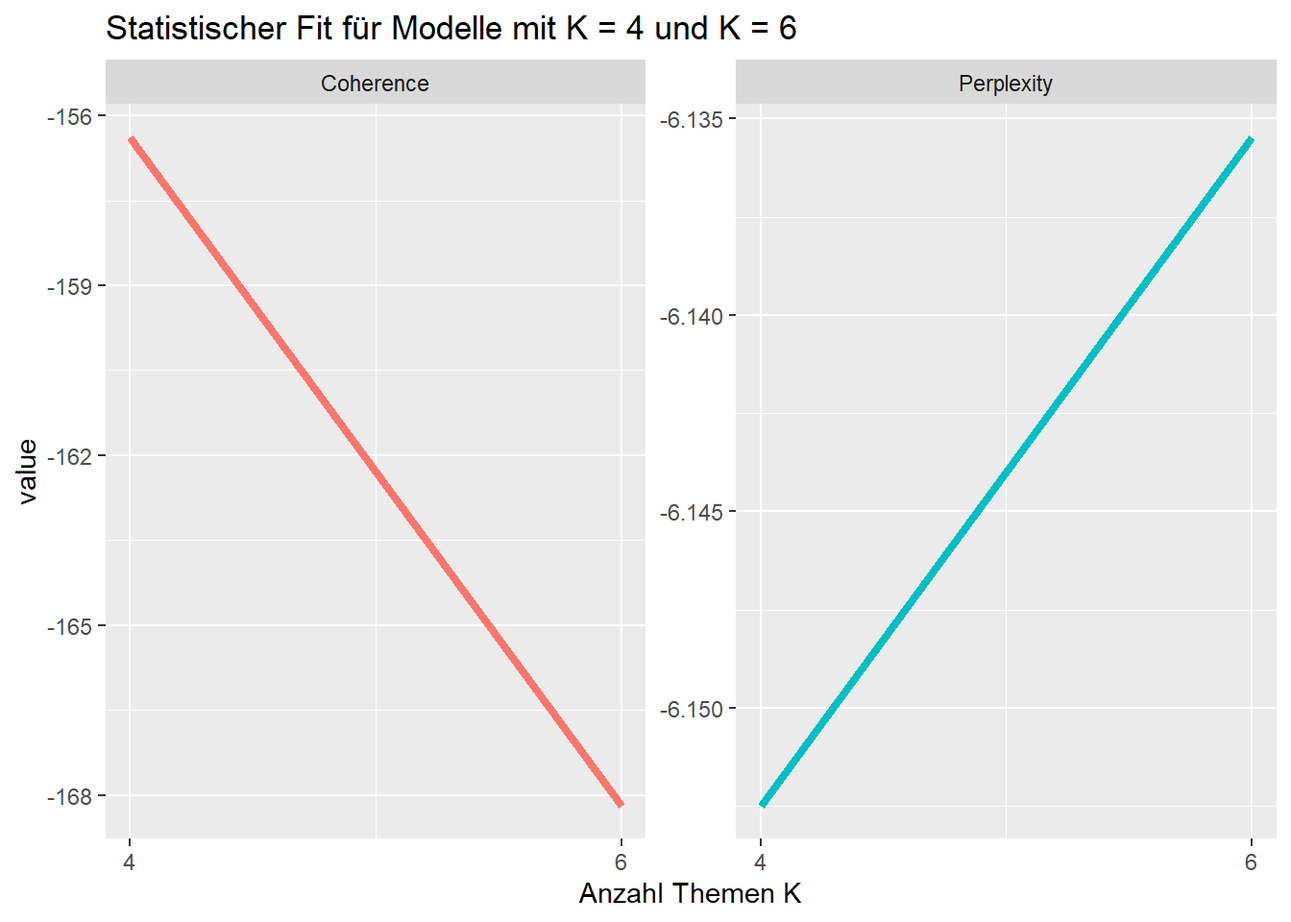
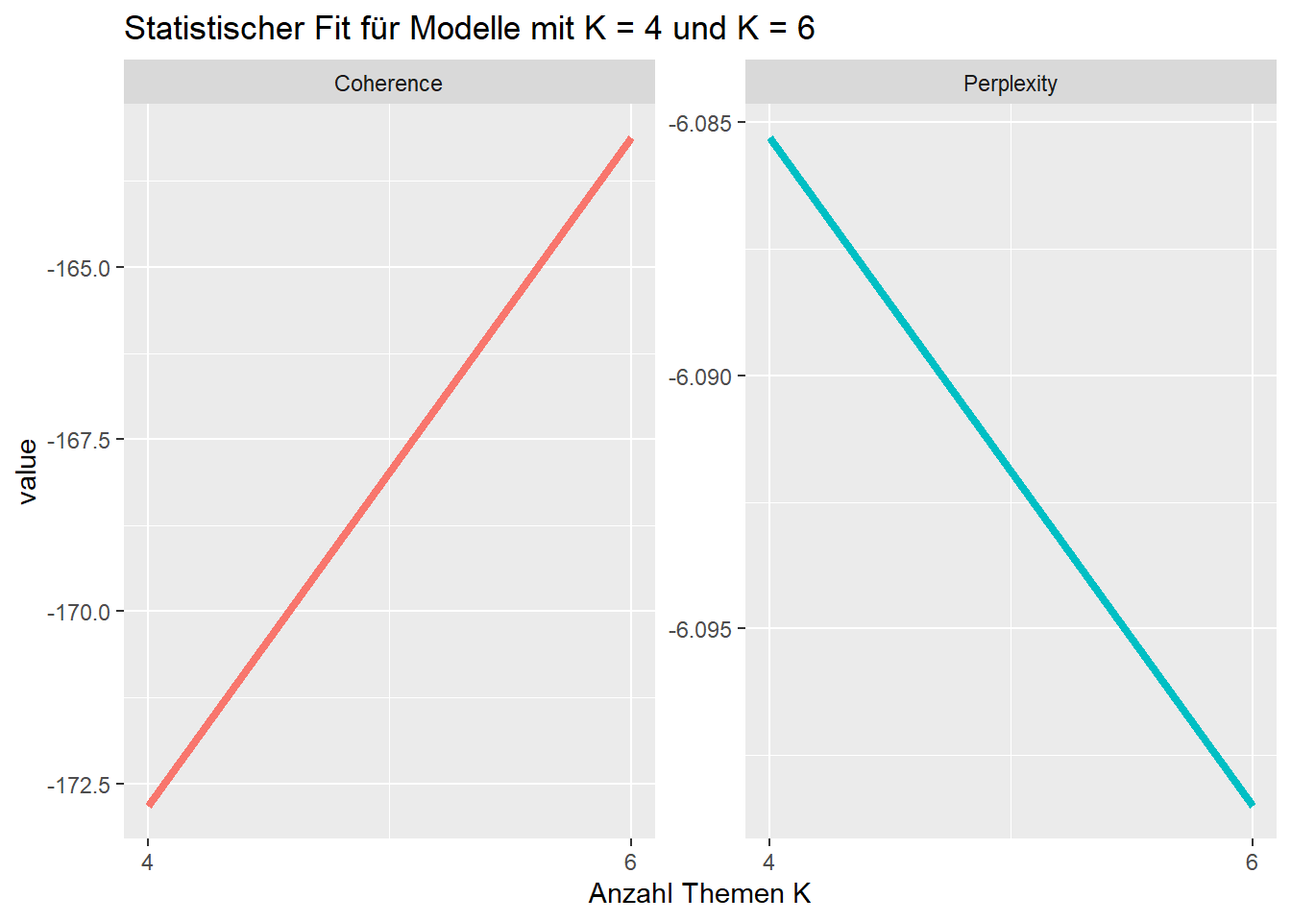
re-rendered tut1

diff --git a/docs/tutorial/04-topicmodeling.html b/docs/tutorial/04-topicmodeling.html
@@ -316,17 +316,17 @@ pre > code.sourceCode > span > a:first-child::before { text-decoration: underlin
 <span id="cb8-9"><a href="#cb8-9" aria-hidden="true" tabindex="-1"></a><span class="fu">colnames</span>(topics_4K) <span class="ot">&lt;-</span> <span class="fu">paste</span>(<span class="st">"Topics"</span>, <span class="fu">c</span>(<span class="dv">1</span><span class="sc">:</span><span class="dv">4</span>))</span>
 <span id="cb8-10"><a href="#cb8-10" aria-hidden="true" tabindex="-1"></a>topics_4K</span></code><button title="Copy to Clipboard" class="code-copy-button"><i class="bi"></i></button></pre></div>
 <div class="cell-output cell-output-stdout">
-<pre><code>       Topics 1 Topics 2    Topics 3 Topics 4
-1          solv     find        citi   discov
-2       mission    everi        life   mother
-3         crime     head        york      los
-4          part   embark         job children
-5          live     name      vampir    death
-6          unit    chang         new    world
-7         ident     seri      search      boy
-8       special     boss        just     come
-9  relationship   horror      friend    demon
-10        coupl   includ misadventur    angel</code></pre>
+<pre><code>   Topics 1 Topics 2 Topics 3 Topics 4
+1     crime     find     life  mysteri
+2     human     seri     live   discov
+3    detect  struggl      new      boy
+4  adventur    chang   friend     lead
+5    crimin     name     citi    agent
+6      case    everi   school    angel
+7      solv    polit     york     dark
+8       use     head   togeth   mother
+9     futur     seem     high   surviv
+10    alien   embark   person children</code></pre>
 </div>
 </div>
 <div class="cell">
@@ -341,17 +341,17 @@ pre > code.sourceCode > span > a:first-child::before { text-decoration: underlin
 <span id="cb10-9"><a href="#cb10-9" aria-hidden="true" tabindex="-1"></a><span class="fu">colnames</span>(topics_6) <span class="ot">&lt;-</span> <span class="fu">paste</span>(<span class="st">"Topics"</span>, <span class="fu">c</span>(<span class="dv">1</span><span class="sc">:</span><span class="dv">6</span>))</span>
 <span id="cb10-10"><a href="#cb10-10" aria-hidden="true" tabindex="-1"></a>topics_6</span></code><button title="Copy to Clipboard" class="code-copy-button"><i class="bi"></i></button></pre></div>
 <div class="cell-output cell-output-stdout">
-<pre><code>   Topics 1 Topics 2 Topics 3 Topics 4 Topics 5 Topics 6
-1     polic     best    angel    human     show   murder
-2    detect   school      los    earth   comedi   crimin
-3      solv   return     live   surviv   around    agent
-4     crime     home     love      war    demon   serial
-5      team     busi  centuri    order  various     save
-6   special     high     teen    alien     name   colleg
-7      case     york   vampir    space   featur  wealthi
-8    person   famili  compani   danger    event american
-9    depart   troubl     make   embark     meet   killer
-10    princ      new     look      job     seri     girl</code></pre>
+<pre><code>     Topics 1 Topics 2 Topics 3 Topics 4 Topics 5 Topics 6
+1       polic     best   vampir    human   comedi american
+2       crime   school   famili    alien     show      war
+3      detect      new     teen    earth   togeth   serial
+4  profession      boy  brother   planet  various    dream
+5    investig     hero   differ    futur     work   killer
+6       stori     york      son  struggl     anim     plan
+7      person   mother     epic    fight     name      cia
+8        case   return    demon   galaxi   featur     turn
+9     special     high    world    space  everyth     drug
+10      polit   troubl    navig     last     lead    begin</code></pre>
 </div>
 </div>
 <p>Die Top Features geben bereits einen ersten Eindruck, worum es sich inhaltlich bei den Topics handelt.</p>
@@ -366,9 +366,9 @@ pre > code.sourceCode > span > a:first-child::before { text-decoration: underlin
 <div class="cell-output cell-output-stdout">
 <pre><code>
  Topic 1: 
-     A drama centered on the personal and professional lives of five surgical interns and their supervisors.
+     Detective Jane Rizzoli and Chief Medical Examiner Dr. Maura Isles team up to solve crimes in Boston.
     An elite unit, led by an ex-homicide cop, which is linked to the Miami-Dade Police Department, uses all possible resources and skills at their disposal to solve complex crimes in cross-cultural Miami.
-    Follows the journey of a time traveler from the post-apocalyptic future who appears in present day on a mission to locate and eradicate the source of a deadly plague that will nearly destroy the human race.</code></pre>
+    The further adventures in time and space of the alien adventurer known as the Doctor and his companions from planet Earth.</code></pre>
 </div>
 </div>
 <p>Die Top Documents zeigen, ähnlich wie die Top Features, dass Topic 1 Krimi-Serien zusammenfasst. Für eine Evaluierung der Themen müssen dann für beide Modelle und alle jeweiligen Themen die Top Documents ausgegeben und die Ergebnisse verglichen werden.</p>
@@ -388,12 +388,13 @@ pre > code.sourceCode > span > a:first-child::before { text-decoration: underlin
 <span id="cb14-6"><a href="#cb14-6" aria-hidden="true" tabindex="-1"></a>  <span class="fu">head</span>()</span></code><button title="Copy to Clipboard" class="code-copy-button"><i class="bi"></i></button></pre></div>
 <div class="cell-output cell-output-stdout">
 <pre><code>   docnum    Topic1    Topic2    Topic3    Topic4
-1:      1 0.2416641 0.2255669 0.2856377 0.2471312
-2:      2 0.2301722 0.1771304 0.2345128 0.3581846
-3:      3 0.1657307 0.1569436 0.2297371 0.4475887
-4:      4 0.3713389 0.1578832 0.3093944 0.1613836
-5:      5 0.1539901 0.1199690 0.2422572 0.4837837
-6:      6 0.1588818 0.2754584 0.2464439 0.3192159</code></pre>
+    &lt;int&gt;     &lt;num&gt;     &lt;num&gt;     &lt;num&gt;     &lt;num&gt;
+1:      1 0.2663954 0.2620603 0.2840283 0.1875160
+2:      2 0.3234499 0.1736692 0.2082024 0.2946784
+3:      3 0.1401247 0.1727312 0.1448235 0.5423207
+4:      4 0.1237850 0.1137826 0.6349453 0.1274870
+5:      5 0.1694126 0.1476420 0.3017674 0.3811779
+6:      6 0.2748651 0.1791878 0.2271607 0.3187864</code></pre>
 </div>
 </div>
 <p>Jetzt nehmen wir diese Matrix und ordnen jedem Dokument das Thema mit der höchsten Prävalenz zu.</p>
@@ -435,10 +436,10 @@ pre > code.sourceCode > span > a:first-child::before { text-decoration: underlin
 <span id="cb17-9"><a href="#cb17-9" aria-hidden="true" tabindex="-1"></a>         <span class="at">perc =</span> <span class="fu">round</span>(perc, <span class="dv">2</span>))</span></code><button title="Copy to Clipboard" class="code-copy-button"><i class="bi"></i></button></pre></div>
 <div class="cell-output cell-output-stdout">
 <pre><code>  Rank1_K4   n  perc
-1   Topic1 106 11.78
-2   Topic2  67  7.44
-3   Topic3 275 30.56
-4   Topic4 452 50.22</code></pre>
+1   Topic1 190 21.11
+2   Topic2  40  4.44
+3   Topic3 311 34.56
+4   Topic4 359 39.89</code></pre>
 </div>
 </div>
 <p>Und jetzt das gleiche für K = 6</p>
@@ -454,12 +455,12 @@ pre > code.sourceCode > span > a:first-child::before { text-decoration: underlin
 <span id="cb19-9"><a href="#cb19-9" aria-hidden="true" tabindex="-1"></a>         <span class="at">perc =</span> <span class="fu">round</span>(perc, <span class="dv">2</span>))</span></code><button title="Copy to Clipboard" class="code-copy-button"><i class="bi"></i></button></pre></div>
 <div class="cell-output cell-output-stdout">
 <pre><code>  Rank1_K6   n  perc
-1   Topic1 166 18.44
-2   Topic2 154 17.11
-3   Topic3 135 15.00
-4   Topic4 199 22.11
-5   Topic5 133 14.78
-6   Topic6 113 12.56</code></pre>
+1   Topic1 147 16.33
+2   Topic2 116 12.89
+3   Topic3 189 21.00
+4   Topic4 197 21.89
+5   Topic5 139 15.44
+6   Topic6 112 12.44</code></pre>
 </div>
 </div>
 <p>Die Ergebnisse zeigen, dass bei K = 6 die Verteilung der Dokumente wesentlich gleichmäßiger ausfällt.</p>
@@ -494,46 +495,69 @@ pre > code.sourceCode > span > a:first-child::before { text-decoration: underlin
 <span id="cb21-16"><a href="#cb21-16" aria-hidden="true" tabindex="-1"></a></span>
 <span id="cb21-17"><a href="#cb21-17" aria-hidden="true" tabindex="-1"></a><span class="co">#Ausgabe der ersten Zeilen</span></span>
 <span id="cb21-18"><a href="#cb21-18" aria-hidden="true" tabindex="-1"></a><span class="fu">head</span>(data)</span></code><button title="Copy to Clipboard" class="code-copy-button"><i class="bi"></i></button></pre></div>
+<div class="cell-output cell-output-stdout">
+<pre><code>                Title      Year Parental.Rating Rating Number.of.Votes
+1  1. Game of Thrones 2011–2019           TV-MA    9.2            2.3M
+2     2. Breaking Bad 2008–2013           TV-MA    9.5            2.1M
+3  3. Stranger Things 2016–2025           TV-14    8.7            1.3M
+4          4. Friends 1994–2004           TV-14    8.9            1.1M
+5 5. The Walking Dead 2010–2022           TV-MA    8.1            1.1M
+6         6. Sherlock 2010–2017           TV-14    9.1              1M
+                                                                                                                                                                                                                                    Description
+1                                                                                                           Nine noble families fight for control over the lands of Westeros, while an ancient enemy returns after being dormant for millennia.
+2                                                                    A chemistry teacher diagnosed with inoperable lung cancer turns to manufacturing and selling methamphetamine with a former student in order to secure his family's future.
+3                                                                                          When a young boy vanishes, a small town uncovers a mystery involving secret experiments, terrifying supernatural forces and one strange little girl.
+4                                                                                                        Follows the personal and professional lives of six twenty to thirty year-old friends living in the Manhattan borough of New York City.
+5                                                                                                              Sheriff Deputy Rick Grimes wakes up from a coma to learn the world is in ruins and must lead a group of survivors to stay alive.
+6 The quirky spin on Conan Doyle's iconic sleuth pitches him as a "high-functioning sociopath" in modern-day London. Assisting him in his investigations: Afghanistan War vet John Watson, who's introduced to Holmes by a mutual acquaintance.
+  Rank1_K4 Rank1_K6 Year_Start
+1   Topic3   Topic4       2011
+2   Topic1   Topic4       2008
+3   Topic4   Topic6       2016
+4   Topic3   Topic2       1994
+5   Topic4   Topic3       2010
+6   Topic4   Topic4       2010</code></pre>
+</div>
 </div>
 <p>Dann nehmen wir die Variable <code>Year_Start</code> als unabhängige Variable in unser Modell auf, um die Prävalenz von Themen zu modellieren:</p>
 <div class="cell">
-<div class="sourceCode cell-code" id="cb22"><pre class="sourceCode r code-with-copy"><code class="sourceCode r"><span id="cb22-1"><a href="#cb22-1" aria-hidden="true" tabindex="-1"></a><span class="co"># Wir lassen das angepasste Modell laufen</span></span>
-<span id="cb22-2"><a href="#cb22-2" aria-hidden="true" tabindex="-1"></a>model_6K_year <span class="ot">&lt;-</span> <span class="fu">stm</span>(<span class="at">documents =</span> dfm_stm<span class="sc">$</span>documents,</span>
-<span id="cb22-3"><a href="#cb22-3" aria-hidden="true" tabindex="-1"></a>                     <span class="at">vocab =</span> dfm_stm<span class="sc">$</span>vocab, </span>
-<span id="cb22-4"><a href="#cb22-4" aria-hidden="true" tabindex="-1"></a>                     <span class="at">K =</span> <span class="dv">6</span>,</span>
-<span id="cb22-5"><a href="#cb22-5" aria-hidden="true" tabindex="-1"></a>                     <span class="at">prevalence =</span> <span class="sc">~</span> Year_Start, <span class="co">#neu!</span></span>
-<span id="cb22-6"><a href="#cb22-6" aria-hidden="true" tabindex="-1"></a>                     <span class="at">data =</span> data)</span></code><button title="Copy to Clipboard" class="code-copy-button"><i class="bi"></i></button></pre></div>
+<div class="sourceCode cell-code" id="cb23"><pre class="sourceCode r code-with-copy"><code class="sourceCode r"><span id="cb23-1"><a href="#cb23-1" aria-hidden="true" tabindex="-1"></a><span class="co"># Wir lassen das angepasste Modell laufen</span></span>
+<span id="cb23-2"><a href="#cb23-2" aria-hidden="true" tabindex="-1"></a>model_6K_year <span class="ot">&lt;-</span> <span class="fu">stm</span>(<span class="at">documents =</span> dfm_stm<span class="sc">$</span>documents,</span>
+<span id="cb23-3"><a href="#cb23-3" aria-hidden="true" tabindex="-1"></a>                     <span class="at">vocab =</span> dfm_stm<span class="sc">$</span>vocab, </span>
+<span id="cb23-4"><a href="#cb23-4" aria-hidden="true" tabindex="-1"></a>                     <span class="at">K =</span> <span class="dv">6</span>,</span>
+<span id="cb23-5"><a href="#cb23-5" aria-hidden="true" tabindex="-1"></a>                     <span class="at">prevalence =</span> <span class="sc">~</span> Year_Start, <span class="co">#neu!</span></span>
+<span id="cb23-6"><a href="#cb23-6" aria-hidden="true" tabindex="-1"></a>                     <span class="at">data =</span> data)</span></code><button title="Copy to Clipboard" class="code-copy-button"><i class="bi"></i></button></pre></div>
 </div>
 <p>Jetzt können wir mit der Funktion <code>estimateEffect()</code> aus dem <code>stm</code>-Paket berechnen, inwiefern das Erscheinungsjahr einer Serie einen Einfluss auf das dort behandelte Thema hat:</p>
 <div class="cell">
-<div class="sourceCode cell-code" id="cb23"><pre class="sourceCode r code-with-copy"><code class="sourceCode r"><span id="cb23-1"><a href="#cb23-1" aria-hidden="true" tabindex="-1"></a>effect <span class="ot">&lt;-</span> <span class="fu">estimateEffect</span>(<span class="at">formula =</span> <span class="sc">~</span> Year_Start, </span>
-<span id="cb23-2"><a href="#cb23-2" aria-hidden="true" tabindex="-1"></a>                         <span class="at">stmobj =</span> model_6K_year, </span>
-<span id="cb23-3"><a href="#cb23-3" aria-hidden="true" tabindex="-1"></a>                         <span class="at">metadata =</span> data)</span></code><button title="Copy to Clipboard" class="code-copy-button"><i class="bi"></i></button></pre></div>
+<div class="sourceCode cell-code" id="cb24"><pre class="sourceCode r code-with-copy"><code class="sourceCode r"><span id="cb24-1"><a href="#cb24-1" aria-hidden="true" tabindex="-1"></a>effect <span class="ot">&lt;-</span> <span class="fu">estimateEffect</span>(<span class="at">formula =</span> <span class="sc">~</span> Year_Start, </span>
+<span id="cb24-2"><a href="#cb24-2" aria-hidden="true" tabindex="-1"></a>                         <span class="at">stmobj =</span> model_6K_year, </span>
+<span id="cb24-3"><a href="#cb24-3" aria-hidden="true" tabindex="-1"></a>                         <span class="at">metadata =</span> data)</span></code><button title="Copy to Clipboard" class="code-copy-button"><i class="bi"></i></button></pre></div>
 </div>
 <p>Diesen Effekt können wir nun auch grafisch darstellen. Bsp. wollen wir wissen: Hat das Erscheinungsjahr einen Effekt darauf, wie häufig Serien z.B. Drama (Topic 2) vs.&nbsp;Sci-Fi (Topic 4) darstellen?</p>
 <div class="cell">
-<div class="sourceCode cell-code" id="cb24"><pre class="sourceCode r code-with-copy"><code class="sourceCode r"><span id="cb24-1"><a href="#cb24-1" aria-hidden="true" tabindex="-1"></a>topics_6 <span class="sc">%&gt;%</span></span>
-<span id="cb24-2"><a href="#cb24-2" aria-hidden="true" tabindex="-1"></a>  <span class="fu">select</span>(<span class="st">`</span><span class="at">Topics 2</span><span class="st">`</span>, <span class="st">`</span><span class="at">Topics 4</span><span class="st">`</span>)</span></code><button title="Copy to Clipboard" class="code-copy-button"><i class="bi"></i></button></pre></div>
+<div class="sourceCode cell-code" id="cb25"><pre class="sourceCode r code-with-copy"><code class="sourceCode r"><span id="cb25-1"><a href="#cb25-1" aria-hidden="true" tabindex="-1"></a>topics_6 <span class="sc">%&gt;%</span></span>
+<span id="cb25-2"><a href="#cb25-2" aria-hidden="true" tabindex="-1"></a>  <span class="fu">select</span>(<span class="st">`</span><span class="at">Topics 2</span><span class="st">`</span>, <span class="st">`</span><span class="at">Topics 4</span><span class="st">`</span>)</span></code><button title="Copy to Clipboard" class="code-copy-button"><i class="bi"></i></button></pre></div>
 <div class="cell-output cell-output-stdout">
 <pre><code>   Topics 2 Topics 4
 1      best    human
-2    school    earth
-3    return   surviv
-4      home      war
-5      busi    order
-6      high    alien
-7      york    space
-8    famili   danger
-9    troubl   embark
-10      new      job</code></pre>
+2    school    alien
+3       new    earth
+4       boy   planet
+5      hero    futur
+6      york  struggl
+7    mother    fight
+8    return   galaxi
+9      high    space
+10   troubl     last</code></pre>
 </div>
 </div>
 <p>Wir plotten die Ergebnisse und sehen - es scheint Unterschiede über die Zeit hinweg zu geben!</p>
 <div class="cell">
-<div class="sourceCode cell-code" id="cb26"><pre class="sourceCode r code-with-copy"><code class="sourceCode r"><span id="cb26-1"><a href="#cb26-1" aria-hidden="true" tabindex="-1"></a><span class="fu">plot</span>(effect, <span class="st">"Year_Start"</span>, </span>
-<span id="cb26-2"><a href="#cb26-2" aria-hidden="true" tabindex="-1"></a>     <span class="at">method =</span> <span class="st">"continuous"</span>, </span>
-<span id="cb26-3"><a href="#cb26-3" aria-hidden="true" tabindex="-1"></a>     <span class="at">topics =</span> <span class="fu">c</span>(<span class="dv">2</span>,<span class="dv">4</span>), </span>
-<span id="cb26-4"><a href="#cb26-4" aria-hidden="true" tabindex="-1"></a>     <span class="at">model =</span> model_6K_year)</span></code><button title="Copy to Clipboard" class="code-copy-button"><i class="bi"></i></button></pre></div>
+<div class="sourceCode cell-code" id="cb27"><pre class="sourceCode r code-with-copy"><code class="sourceCode r"><span id="cb27-1"><a href="#cb27-1" aria-hidden="true" tabindex="-1"></a><span class="fu">plot</span>(effect, <span class="st">"Year_Start"</span>, </span>
+<span id="cb27-2"><a href="#cb27-2" aria-hidden="true" tabindex="-1"></a>     <span class="at">method =</span> <span class="st">"continuous"</span>, </span>
+<span id="cb27-3"><a href="#cb27-3" aria-hidden="true" tabindex="-1"></a>     <span class="at">topics =</span> <span class="fu">c</span>(<span class="dv">2</span>,<span class="dv">4</span>), </span>
+<span id="cb27-4"><a href="#cb27-4" aria-hidden="true" tabindex="-1"></a>     <span class="at">model =</span> model_6K_year)</span></code><button title="Copy to Clipboard" class="code-copy-button"><i class="bi"></i></button></pre></div>
 <div class="cell-output-display">
 <div>
 <figure class="figure">
@@ -553,17 +577,17 @@ pre > code.sourceCode > span > a:first-child::before { text-decoration: underlin
 </ul>
 <p>Dieses findet ihr unter Sitzung 4 zum Download (<a href="https://valeriehase.github.io/textasdata-ms/data/Sitzung4.RDATA">hier</a>), solltest ihr bis hierhin Probleme gehabt haben, den Code auszuführen.</p>
 <div class="cell">
-<div class="sourceCode cell-code" id="cb27"><pre class="sourceCode r code-with-copy"><code class="sourceCode r"><span id="cb27-1"><a href="#cb27-1" aria-hidden="true" tabindex="-1"></a><span class="co"># Wir erstellen das Objekt out, in dem alle wichtigen Infos gespeichert sind</span></span>
-<span id="cb27-2"><a href="#cb27-2" aria-hidden="true" tabindex="-1"></a><span class="co"># Das stminsights-Paket benötigt dieses Format</span></span>
-<span id="cb27-3"><a href="#cb27-3" aria-hidden="true" tabindex="-1"></a>out <span class="ot">&lt;-</span> <span class="fu">list</span>(<span class="at">documents =</span> dfm_stm<span class="sc">$</span>documents,</span>
-<span id="cb27-4"><a href="#cb27-4" aria-hidden="true" tabindex="-1"></a>            <span class="at">vocab =</span> dfm_stm<span class="sc">$</span>vocab,</span>
-<span id="cb27-5"><a href="#cb27-5" aria-hidden="true" tabindex="-1"></a>            <span class="at">meta =</span> dfm_stm<span class="sc">$</span>meta)</span>
-<span id="cb27-6"><a href="#cb27-6" aria-hidden="true" tabindex="-1"></a></span>
-<span id="cb27-7"><a href="#cb27-7" aria-hidden="true" tabindex="-1"></a><span class="co"># Wir speichern das Environment ab, um es hochzuladen</span></span>
-<span id="cb27-8"><a href="#cb27-8" aria-hidden="true" tabindex="-1"></a><span class="fu">save.image</span>(<span class="st">"Sitzung4.RDATA"</span>)</span>
-<span id="cb27-9"><a href="#cb27-9" aria-hidden="true" tabindex="-1"></a></span>
-<span id="cb27-10"><a href="#cb27-10" aria-hidden="true" tabindex="-1"></a><span class="co"># Wir lassen die Shiny App laufen</span></span>
-<span id="cb27-11"><a href="#cb27-11" aria-hidden="true" tabindex="-1"></a><span class="fu">run_stminsights</span>()</span></code><button title="Copy to Clipboard" class="code-copy-button"><i class="bi"></i></button></pre></div>
+<div class="sourceCode cell-code" id="cb28"><pre class="sourceCode r code-with-copy"><code class="sourceCode r"><span id="cb28-1"><a href="#cb28-1" aria-hidden="true" tabindex="-1"></a><span class="co"># Wir erstellen das Objekt out, in dem alle wichtigen Infos gespeichert sind</span></span>
+<span id="cb28-2"><a href="#cb28-2" aria-hidden="true" tabindex="-1"></a><span class="co"># Das stminsights-Paket benötigt dieses Format</span></span>
+<span id="cb28-3"><a href="#cb28-3" aria-hidden="true" tabindex="-1"></a>out <span class="ot">&lt;-</span> <span class="fu">list</span>(<span class="at">documents =</span> dfm_stm<span class="sc">$</span>documents,</span>
+<span id="cb28-4"><a href="#cb28-4" aria-hidden="true" tabindex="-1"></a>            <span class="at">vocab =</span> dfm_stm<span class="sc">$</span>vocab,</span>
+<span id="cb28-5"><a href="#cb28-5" aria-hidden="true" tabindex="-1"></a>            <span class="at">meta =</span> dfm_stm<span class="sc">$</span>meta)</span>
+<span id="cb28-6"><a href="#cb28-6" aria-hidden="true" tabindex="-1"></a></span>
+<span id="cb28-7"><a href="#cb28-7" aria-hidden="true" tabindex="-1"></a><span class="co"># Wir speichern das Environment ab, um es hochzuladen</span></span>
+<span id="cb28-8"><a href="#cb28-8" aria-hidden="true" tabindex="-1"></a><span class="fu">save.image</span>(<span class="st">"Sitzung4.RDATA"</span>)</span>
+<span id="cb28-9"><a href="#cb28-9" aria-hidden="true" tabindex="-1"></a></span>
+<span id="cb28-10"><a href="#cb28-10" aria-hidden="true" tabindex="-1"></a><span class="co"># Wir lassen die Shiny App laufen</span></span>
+<span id="cb28-11"><a href="#cb28-11" aria-hidden="true" tabindex="-1"></a><span class="fu">run_stminsights</span>()</span></code><button title="Copy to Clipboard" class="code-copy-button"><i class="bi"></i></button></pre></div>
 </div>
 </section>
 </section>

diff --git a/docs/tutorial/01-einlesen-bereinigen.html b/docs/tutorial/01-einlesen-bereinigen.html
@@ -484,7 +484,7 @@ text1 :
 <span id="cb28-5"><a href="#cb28-5" aria-hidden="true" tabindex="-1"></a><span class="co"># So sieht das Ergebnis aus</span></span>
 <span id="cb28-6"><a href="#cb28-6" aria-hidden="true" tabindex="-1"></a>dfm</span></code><button title="Copy to Clipboard" class="code-copy-button"><i class="bi"></i></button></pre></div>
 <div class="cell-output cell-output-stdout">
-<pre><code>Document-feature matrix of: 900 documents, 4,246 features (99.66% sparse) and 0 docvars.
+<pre><code>Document-feature matrix of: 900 documents, 4,235 features (99.65% sparse) and 0 docvars.
        features
 docs    nine nobl famili fight control land westero ancient enemi return
   text1    1    1      1     1       1    1       1       1     1      1
@@ -493,7 +493,7 @@ docs    nine nobl famili fight control land westero ancient enemi return
   text4    0    0      0     0       0    0       0       0     0      0
   text5    0    0      0     0       0    0       0       0     0      0
   text6    0    0      0     0       0    0       0       0     0      0
-[ reached max_ndoc ... 894 more documents, reached max_nfeat ... 4,236 more features ]</code></pre>
+[ reached max_ndoc ... 894 more documents, reached max_nfeat ... 4,225 more features ]</code></pre>
 </div>
 </div>
 <p>Wir sehen:</p>
@@ -511,7 +511,7 @@ docs    nine nobl famili fight control land westero ancient enemi return
 <div class="sourceCode cell-code" id="cb30"><pre class="sourceCode r code-with-copy"><code class="sourceCode r"><span id="cb30-1"><a href="#cb30-1" aria-hidden="true" tabindex="-1"></a><span class="co"># Anzahl Features vor relative pruning</span></span>
 <span id="cb30-2"><a href="#cb30-2" aria-hidden="true" tabindex="-1"></a>dfm</span></code><button title="Copy to Clipboard" class="code-copy-button"><i class="bi"></i></button></pre></div>
 <div class="cell-output cell-output-stdout">
-<pre><code>Document-feature matrix of: 900 documents, 4,246 features (99.66% sparse) and 0 docvars.
+<pre><code>Document-feature matrix of: 900 documents, 4,235 features (99.65% sparse) and 0 docvars.
        features
 docs    nine nobl famili fight control land westero ancient enemi return
   text1    1    1      1     1       1    1       1       1     1      1
@@ -520,7 +520,7 @@ docs    nine nobl famili fight control land westero ancient enemi return
   text4    0    0      0     0       0    0       0       0     0      0
   text5    0    0      0     0       0    0       0       0     0      0
   text6    0    0      0     0       0    0       0       0     0      0
-[ reached max_ndoc ... 894 more documents, reached max_nfeat ... 4,236 more features ]</code></pre>
+[ reached max_ndoc ... 894 more documents, reached max_nfeat ... 4,225 more features ]</code></pre>
 </div>
 <div class="sourceCode cell-code" id="cb32"><pre class="sourceCode r code-with-copy"><code class="sourceCode r"><span id="cb32-1"><a href="#cb32-1" aria-hidden="true" tabindex="-1"></a><span class="co"># Anwendung des relative pruning</span></span>
 <span id="cb32-2"><a href="#cb32-2" aria-hidden="true" tabindex="-1"></a>dfm  <span class="ot">&lt;-</span> dfm  <span class="sc">%&gt;%</span> </span>
@@ -532,7 +532,7 @@ docs    nine nobl famili fight control land westero ancient enemi return
 <span id="cb32-8"><a href="#cb32-8" aria-hidden="true" tabindex="-1"></a><span class="co"># Anzahl Features nach relative pruning</span></span>
 <span id="cb32-9"><a href="#cb32-9" aria-hidden="true" tabindex="-1"></a>dfm</span></code><button title="Copy to Clipboard" class="code-copy-button"><i class="bi"></i></button></pre></div>
 <div class="cell-output cell-output-stdout">
-<pre><code>Document-feature matrix of: 900 documents, 605 features (98.58% sparse) and 0 docvars.
+<pre><code>Document-feature matrix of: 900 documents, 605 features (98.57% sparse) and 0 docvars.
        features
 docs    famili fight control land ancient enemi return turn former student
   text1      1     1       1    1       1     1      1    0      0       0
@@ -564,9 +564,9 @@ live          108
 life          108
 famili        107
 new           103
+world          75
 young          74
 follow         74
-world          74
 friend         70
 find           69
 seri           65</code></pre>
